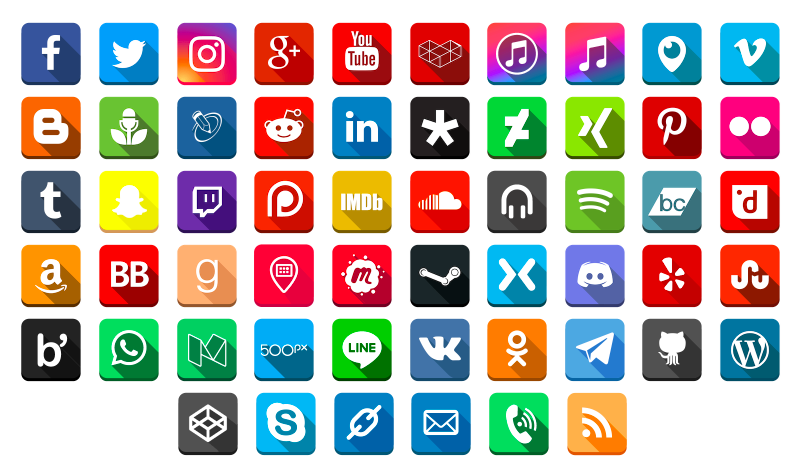
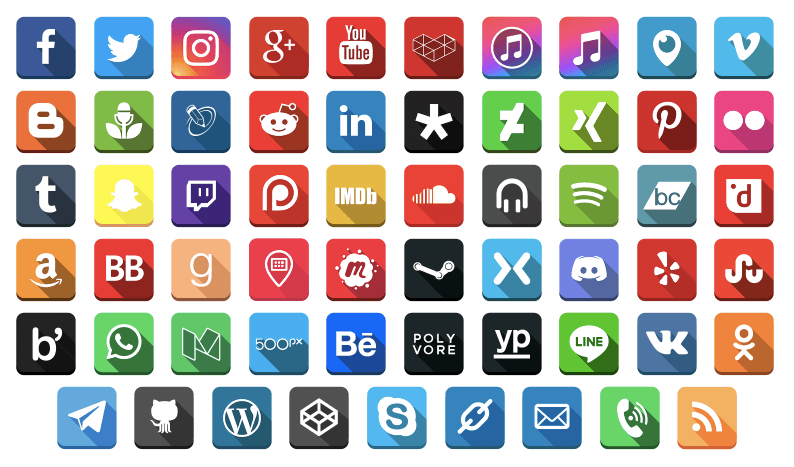
Post updated

diff --git a/_posts/Arthur/Projects/en/plugins/2015-12-19-wp-plugin-social-media-buttons-toolbar.md b/_posts/Arthur/Projects/en/plugins/2015-12-19-wp-plugin-social-media-buttons-toolbar.md
@@ -101,15 +101,22 @@ It give you finer control over buttons. You can configure they on plugins settin
 **Supported social media and links:**
 
 * Facebook
+* Flickr
 * Twitter
 * Instagram
 * Google+
 * YouTube
+* YouTube Gaming
 * iTunes
 * Apple Music
+* Periscope
 * Vimeo
 * Blogger
 * LinkedIn
+* Diaspora
+* DeviantArt
+* XING
+* Buzzsprout
 * LiveJournal
 * Reddit
 * Pinterest
@@ -121,11 +128,15 @@ It give you finer control over buttons. You can configure they on plugins settin
 * SoundCloud
 * Plug.dj
 * Spotify
+* Bandcamp
 * Dloky
+* Amazon
+* BookBub
 * Goodreads
 * MeetVibe
 * Meetup
 * Steam
+* Mixer
 * Discord
 * Yelp
 * StumbleUpon
@@ -133,6 +144,9 @@ It give you finer control over buttons. You can configure they on plugins settin
 * WhatsApp
 * Medium
 * 500px
+* Behance
+* Polyvore
+* Yellow Pages
 * LINE
 * VKontakte (vk.com)
 * Odnoklassniki (ok.ru)
@@ -211,7 +225,7 @@ Commercial licensing (e.g. for projects that can’t use an open-source license)
 * The icon of plugin is a copyrighted image created by [Arthur Gareginyan](http://www.arthurgareginyan.com). (C) All rights reserved.
 * The banner of plugin is a copyrighted image created by [Arthur Gareginyan](http://www.arthurgareginyan.com). (C) All rights reserved.
 * The Entrepreneur image that used on banner is from [Pixabay](https://pixabay.com/en/entrepreneur-start-start-up-career-696976/) and licensed under the [Creative Commons CC0](https://creativecommons.org/publicdomain/zero/1.0/deed.en).
-* Icons [itunes.png, apple-music.png, mixer.png, telephone.png, bloglovin.png, line.png, stumbleupon.png, whatsapp.png, plugdj.png, buzzsprout.png, periscope.png, youtube.png, meetvibe.png, wordpress.png, twitter.png, imdb.png, dloky.png, snapchat.png, steam.png, discord.png, twitch.png, amazon.png, bookbub.png, goodreads.png, reddit.png, meetup.png, codepen.png, instagram.png, patreon.png, bandcamp.png, youtube-gaming.png, xing.png](https://www.iconfinder.com/iconsets/square-logo-buttons?ref=ArthurGareginyan) by [Arthur Gareginyan](http://www.arthurgareginyan.com) and licensed under the [Creative Commons (Attribution 3.0 Unported)](http://creativecommons.org/licenses/by/3.0/).
+* Icons [itunes.png, apple-music.png, medium.png, 500px.png, behance.png, polyvore.png, yellowpages.png, mixer.png, telephone.png, bloglovin.png, line.png, stumbleupon.png, whatsapp.png, plugdj.png, deviantart.png, buzzsprout.png, periscope.png, youtube.png, meetvibe.png, wordpress.png, twitter.png, imdb.png, dloky.png, snapchat.png, steam.png, discord.png, twitch.png, amazon.png, bookbub.png, goodreads.png, reddit.png, meetup.png, codepen.png, instagram.png, patreon.png, bandcamp.png, youtube-gaming.png, xing.png](https://www.iconfinder.com/iconsets/square-logo-buttons?ref=ArthurGareginyan) by [Arthur Gareginyan](http://www.arthurgareginyan.com) and licensed under the [Creative Commons (Attribution 3.0 Unported)](http://creativecommons.org/licenses/by/3.0/).
 * Icons [facebook.png, flickr.png, google-plus.png, vimeo.png, blogger.png, linkedin.png, livejournal.png, pinterest.png, tumblr.png, soundcloud.png, spotify.png, yelp.png, vkontakte.png, odnoklassniki.png, telegram.png, github.png, skype.png, website.png, email.png, rss-feed.png](https://www.iconfinder.com/iconsets/social-buttons-2?ref=ArthurGareginyan) by Ivlichev Victor Petrovich and licensed under the [Creative Commons (Attribution 3.0 Unported)](http://creativecommons.org/licenses/by/3.0/).
 * [Bootstrap](http://getbootstrap.com) by Twitter, Inc. released under the [MIT license](https://github.com/twbs/bootstrap/blob/master/LICENSE).
 * [Bootstrap-checkbox](https://github.com/vsn4ik/bootstrap-checkbox) is a project of [Vasily A.](https://github.com/vsn4ik), shared under the [MIT license](https://github.com/vsn4ik/bootstrap-checkbox/blob/master/LICENSE).
